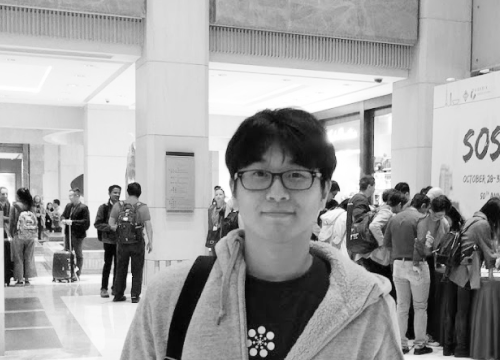
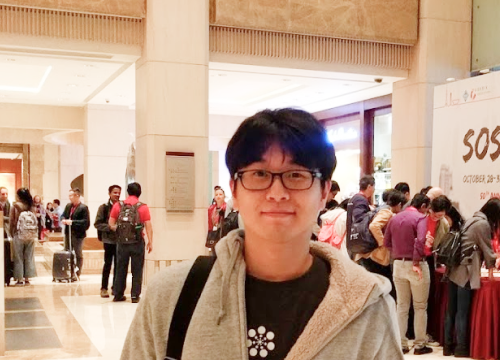
update team members' pics

diff --git a/assets/css/style.css b/assets/css/style.css
@@ -1280,9 +1280,20 @@ About Page
   transition: all 0.3s;
 }
 
-.team-member img {
+.team-member a img {
   position: relative;
   z-index: 2;
+  width: auto;
+  margin: 0 auto;
+  -webkit-filter: grayscale(100%);
+  filter: grayscale(100%);
+  -webkit-transition: all 0.4s;
+  transition: all 0.4s;
+}
+
+.team-member a:hover img {
+  -webkit-filter: grayscale(0%);
+  filter: grayscale(0%);
 }
 
 .team-member .member-info {

diff --git a/about.md b/about.md
@@ -110,7 +110,7 @@ permalink: /about
     <div class="row">
       <div class="col-md-4">
         <div class="team-member">
-          <img src="/assets/img/team/hongchan.png" alt="">
+          <a href="#"><img src="/assets/img/team/hongchan.png" alt=""></a>
           <div class="member-info">
             <h3>Hongchan Roh</h3>
             <p>Team Leader, Ph.D</p>
@@ -121,7 +121,7 @@ permalink: /about
       </div>
       <div class="col-md-4">
         <div class="team-member">
-          <img src="/assets/img/team/sungho.png" alt="">
+          <a href="#"><img src="/assets/img/team/sungho.png" alt=""></a>
           <div class="member-info">
             <h3>Sungho Kim</h3>
             <p>Project Manager</p>
@@ -132,7 +132,7 @@ permalink: /about
       </div>
       <div class="col-md-4">
         <div class="team-member">
-          <img src="/assets/img/team/dooyoung.png" alt="">
+          <a href="#"><img src="/assets/img/team/dooyoung.png" alt=""></a>
           <div class="member-info">
             <h3>Dooyoung Hwang</h3>
             <p>Tech. Leader</p>
@@ -143,7 +143,7 @@ permalink: /about
       </div>
       <div class="col-md-4">
         <div class="team-member">
-          <img src="/assets/img/team/junghwan.png" alt="">
+          <a href="#"><img src="/assets/img/team/junghwan.png" alt=""></a>
           <div class="member-info">
             <h3>Junghwan Park</h3>
             <p>Software Engineer</p>
@@ -154,7 +154,7 @@ permalink: /about
       </div>
       <div class="col-md-4">
         <div class="team-member">
-          <img src="/assets/img/team/youjun.png" alt="">
+          <a href="#"><img src="/assets/img/team/youjun.png" alt=""></a>
           <div class="member-info">
             <h3>YouJun Go</h3>
             <p>Software Engineer</p>
@@ -165,7 +165,7 @@ permalink: /about
       </div>
       <div class="col-md-4">
         <div class="team-member">
-          <img src="/assets/img/team/moohyeon.png" alt="">
+          <a href="#"><img src="/assets/img/team/moohyeon.png" alt=""></a>
           <div class="member-info">
             <h3>Moohyeon Nam</h3>
             <p>Software Engineer, Ph.D</p>
